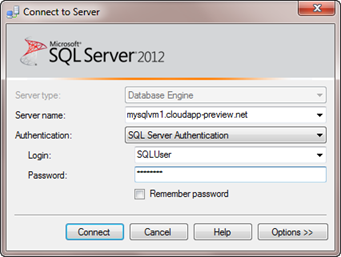
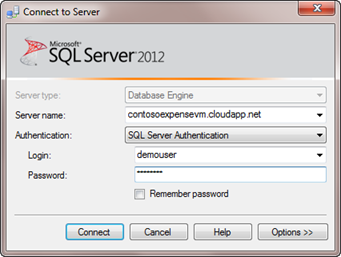
- Updated demo script and screenshots for Contoso Expense demo. (still WIP)

Changed region(s): [[0.3519, 0.4047, 0.7625, 0.4669], [0.3812, 0.5603, 0.5279, 0.6226]]

diff --git a/Demo.md b/Demo.md
@@ -80,13 +80,16 @@ This demo is composed of the following segments:
 
 	>**Speaking Point**
 	>
-	> In my Dashboard view, here is see expenses I have submitted and are awaiting approval from my manager, as well as those that have been approved and rejected.
+	> In my Dashboard view, I can see expenses I have submitted and are awaiting approval from my manager, as well as those that have been approved and rejected.
 
 1.	Enter the following information:
 	- Name
 	- Purpose
+
+1. Next, click **Add New Expense** and fill in the following fields:
+	- Category
 	- Description
-	- Date
+	- Merchant
 	- Billed Amount
 	- Transaction Amount
 
@@ -98,7 +101,7 @@ This demo is composed of the following segments:
 	>
 	> Highlight the fact that because of limitations on-premises, receipts are still submitted manually and are not physically associated or attached with the Expense report.
 
-1. Click **Save As Draft**.
+1. Click **Save Draft**.
 
 	![Expense Reporting - Save Draft](images/expense-reporting-save-draft.png?raw=true "Expense Reporting - Save Draft")
 
@@ -106,9 +109,9 @@ This demo is composed of the following segments:
 
 	>**Speaking Point**
 	>
-	> We going to save this report as a draft because we are going to come back to this expense report several times during this demo.
+	> We are going to save this expense report as a draft because we will come back to it several times during this demo.
 
-1.	Show **Visual Studio**. 
+1. Show **Visual Studio**. 
 1. Open the **Solution Explorer** window.
 
 	![Application's Solution Explorer](images/applications-solution-explorer.png?raw=true "Application's Solution Explorer")
@@ -122,9 +125,10 @@ This demo is composed of the following segments:
 <a name="segment2" />
 ### Migrating to Windows Azure with Virtual Machines & SQL Server 2012 ###
 
-1. Open the Web Browser and navigate to the Windows Azure Portal at <http://windows.azure.com>
+1. Open the Web browser and navigate to the Windows Azure Portal at <http://windows.azure.com>
 
-1. Sign in with the customers live id.
+1. Sign in with your Live ID.
+
 
 	![Sign in](images/sign-in.png?raw=true "Windows Azure Portal Sign in")
 
@@ -132,27 +136,26 @@ This demo is composed of the following segments:
 
 	>**Speaking Point**
 	>
-	> The first step in migrating our application to Windows Azure is to create our VM.
+	> The first step in migrating our application to Windows Azure is to create a VM.
 	>
 	> Let us first navigate to the Windows Azure portal and get signed in.
 	>
-	> We use live id for authentication on the portal - so let’s get log in.
+	> We use Live ID for authentication on the portal, so let’s log in.
 
 1. Click **New** | **Virtual Machine** | **From Gallery**.
 
 	![Creating Virtual Machine from Gallery](images/creating-virtual-machine-from-gallery.png?raw=true "Creating Virtual Machine from Gallery")
 
-	_Creating Virtual Machine from Gallery_
+	_Creating a virtual machine from the Gallery_
 
 	>**Speaking Point**
 	>
 	> Now that we’re logged in, creating a virtual machine via the portal is easy. Let’s select the virtual machines option in the navigation pane.
 	>
-	> At least one virtual machine will be created, but we’re going to create a new virtual machine that has SQL Server 2012. To do that, we’re going to select the **FROM GALLARY** option.
+	> At least one virtual machine will be created, but we’re going to create a new virtual machine that has SQL Server 2012. To do that, we’re going to select the **FROM GALLERY** option.
 	>
-	>**Quick Create** if you only need one virtual machine that doesn’t need to be load-balanced or joined to a virtual network.
-	>
-	>**From Gallery** you have more complex solution. Witth this option you have more flexibility in how the machine is used in advanced solutions.
+	>You can use **Quick Create** if you only need one virtual machine that doesn’t need to be load-balanced or joined to a virtual network or
+**From Gallery** if you have more complex solution. With the latter, you have more flexibility in how the machine is used in advanced scenarios.
 
 1.	In the **CREATE VIRTUAL MACHINE** dialog, select the **SQL Server 2012 Evaluation** option.
 1.	Click the right arrow (Next).
@@ -164,13 +167,14 @@ This demo is composed of the following segments:
 
 	>**Speaking Point**
 	>
-	> Notice all the different VM’s that we have in our gallery. As you can see, we have several VMs that include Linux, as well as several Sever 2008 R2 and Server 8 Beta VMs.
+	> Notice all the different VM’s that we have in our gallery. As you can see, we have many VMs that include Linux, as well as several Server 2008 R2 and Server 2012 VMs.
 	>
 	>We also have, as you can see, a SQL Server 2012 VM. This VM is running SQL Server 2012 Enterprise Evaluation edition which is the VM we want to create, so let’s select that one.
 
 1.	The second page of the **Create Virtual Machine** wizard is the **VM Configuration**. Enter the following:
-	-**NAME**: ConstosExpenseVM
-	-**Password**: Passw0rd!
+	- **Virtual Machine Name**: ContosExpenseVM
+	- **Password**: Passw0rd!
+
 1.	Enter password for the administrator account, then re-enter the password for confirmation.
 1. Select the _Large_ VM **size**.
 
@@ -180,11 +184,11 @@ This demo is composed of the following segments:
 
 	>**Speaking Point**
 	>
-	> Now what we need to do is give our Virtual machine a name. This is the portal display name.
+	> Now what we need to do is give our virtual machine a name. This is the portal display name.
 	>
-	>We also need to supply an administrator Password. 
+	>We also need to supply an administrator password. 
 	>
-	>More  importantly however, we also need to select the size of the VM. There are several size options:
+	>More  importantly, however, we also need to select the size of the VM. There are several size options:
 	>
 	>	- Extra Small
 	>	- Small
@@ -194,10 +198,10 @@ This demo is composed of the following segments:
 	>
 	>These sizes differ, as we can see, in the amount of CPU cores and memory allotted to the VM. It is important that the VM we select will suffice for our needs.
 
-1.	The third page of the **CREATE VIRTUAL MACHINE** wizard is the **VM Mode.** Select the **Standalone Virtual Machine** option.
-1.	Enter a _unique_ **DNS** name for the Virtual Machine.
+1.	The third page of the **CREATE VIRTUAL MACHINE** wizard is the **VM Mode.** Select the **STANDALONE VIRTUAL MACHINE** option.
+1.	Enter a _unique_ **DNS NAME** for the virtual machine.
 1.	For the **STORAGE ACCOUNT**, leave the default at **Use Automatically Generated Storage Account**.
-1. Leave the **REGION/AFFINITY GROUP/VIRTUAL NETWORK** option to **West US**.
+1. Choose a suitable **REGION/AFFINITY GROUP/VIRTUAL NETWORK** where the VM will be deployed.
 
 	![VM Mode page](images/vm-mode-page.png?raw=true "VM Mode page")
 
@@ -205,11 +209,11 @@ This demo is composed of the following segments:
 
 	>**Speaking Point**
 	>
-	> Next we need to select the type of Virtual Machine. Meaning, is this going to be new standalone virtual machine, or are we connecting to an existing virtual machine? With the new IaaS domain features, we have the ability to join this VM to an existing domain. However, for the purposes of this demo, we’ll simply create a standalone VM.
+	> Next we need to select the type of virtual machine. In other words, is this going to be new standalone virtual machine, or are we connecting to an existing virtual machine? With the new IaaS domain features, we have the ability to join this VM to an existing domain. However, for the purposes of this demo, we’ll simply create a standalone VM.
 	>
 	> Next we need to supply a DNS name for this VM. 
 	> 
-	> These VMs are stored in BLOB storage, and we need to specify whether our VM will use an Azure account tied to our Subscription if we created one, or use an automatically generated Storage Account. Since we haven’t created our Storage Account yet, we’ll use the automatically generated account.
+	> These VMs are stored in blob storage and we need to specify whether our VM will use a Windows Azure account tied to our subscription if we created one, or use an automatically generated storage account. Since we haven’t created a storage account yet, we’ll use the automatically generated account.
 Lastly, we need specify in which region to create the VM. 
 
 
@@ -225,81 +229,98 @@ Lastly, we need specify in which region to create the VM.
 	>
 	> Lastly, we need to select an availability set in which to create the VM. 
 	>
-	> POINT: **Availability sets are a group of machines that are deployed across multiple locations (commonly called Fault domains). Availability sets are used to protect from outages.**
+	> An availability set is a group of machines that are deployed across multiple locations (commonly called fault domains). Availability sets are used to protect from outages.
 	> 
-	>So, we’ll select the Create Availability Set Option, and name the Availability Set MyAvailSet.
+	>So, we’ll select the **Create Availability Set** option and name the availability set as _MyAvailSet_.
 	>
-	>Great, were done! We can see in the portal that our VM is being provisioned.
+	>Great, we are done! We can see in the portal that our VM is being provisioned.
 
-1.	At this point, we will switch over to an already provision Virtual Machine that has been prepped and configured.
-1. In the Dashboard, highlight and copy the **DNS** name to the clipboard.
+1. At this point, you may switch over to an already provisioned virtual machine that has been configured with an endpoint for SQL Server Management and that has the corresponding port (1433) opened in its firewall, as well as having an additional SQL Server login which you can use to connect remotely. Otherwise, follow these steps to complete the required configuration. 
 
-	![Virtual Machine's DNS](images/virtual-machines-dns.png?raw=true "Virtual Machine's DNS")
+1.	In the **Windows Azure Portal**, select the VM you created previously.
+1.	Click  the **ENDPOINTS link.**
+1.	Click **ADD ENDPOINT** in the command bar.
+1.	In the **ADD ENDPOINT** dialog, select **Add Endpoint** and then click the right arrow to go to the next page.
 
-	_Virtual Machine's DNS_
+	![Add Endpoint to Virtual Machine page](images/add-endpoint-to-virtual-machine-page.png?raw=true "Add Endpoint to Virtual Machine page")
 
-	>**Speaking Point**
-	>
-	> However, instead of waiting, we are going to use a VM that we provisioned earlier. 
-	>
-	> However, before we connect to the VM, we need to grab some information from it. 
-	>
-	> In order to connect to SQL Server in the VM, we need the DNS name. We’ll be using shortly to connect to SQL Server.
+	_Adding an endpoint to a virtual machine_
 
+1.	In the second page of the **ADD ENDPOINT** dialog, enter a **NAME** for the endpoint, select **TCP** as the **PROTOCOL**, and enter **1433** for both the **PUBLIC PORT** and **PRIVATE PORT** . 
 
-1.	Ensure that you are on the DASHBOARD page.
-1.	Click **Connect** on the whatever bar.
-1.	Save the RDP file to the desktop.
-1 Minimize the browser.
+	![Add Endpoint To Virtual Machine page](images/add-endpoint-to-virtual-machine-page2.png?raw=true "Add Endpoint To Virtual Machine page")
 
-	![Connect to the Virtual Machine](images/connect-to-the-virtual-machine.png?raw=true "Connect to the Virtual Machine")
-
-	_Connect to the Virtual Machine_
-
-	>**Speaking Point**
-	>
-	> We’re going to connect to this VM, and to do that, we simply selected the VM in the portal and click the CONNECT button, which creates an RDP shortcut and asks us to open it or run it. 
-	>
-	> For our existing VM, we saved that shortcut to our desktop.
-
-1.	On the desktop, double0-click the RDP file.
-2.	In the Windows Security dialog, enter the password
-	- Password: Passw0rd!
-1. Click OK.
-
-	![Connecting Virtual Machine - Entering Credentials](images/connecting-virtual-machine-entering-credent.png?raw=true "Connecting Virtual Machine - Entering Credentials")
-
-	_Connecting Virtual Machine - Entering Credentials_
-
-	>**Speaking Point**
-	>
-	> Let’s log into the Virtual Machine by entering the password we entered earlier. 
-	>
-	> While the machine is booting up, call out the steps to prep the  vm for SQL Server access (create endpoint, open port on vm firewall).
-	>	- Creating the endpoint allows the ability to access the VM (_do we go back to the portal and show how that’s done_)?
-	> - To gain access to SQL Server in the Vm, we also need to open port 1433 on the Windows Firewall to allow inbound connections.
-	> - For simplicity sake, we also created a SQL Server login and user with which to connect to SQL Server in the VM.
-
-1.	While the VM is loading, **Go back to the portal**.
-1.	Select the already provisioned VM.
-1. Click the **Endpoints** link.
-
-	![Endpoints Section](images/endpoints-section.png?raw=true "Endpoints Section")
-
-	_Endpoints Section_
+	_Configuring the virtual machine endpoint_
 
 	>**Speaking Point**
 	>
 	> Highlight the fact that in order to gain access to SQL Server inside the VM from external, we needed to create an **Endpoint** for port 1433.
 	>
 	>**Virtual machines** use endpoints to communicate within Windows Azure and with other resources on the Internet
+	>
+	>Creating the endpoint allows us to access the VM remotely to connect to SQL Server.
 
+	![Endpoints Section](images/endpoints-section.png?raw=true "Endpoints Section")
 
-1.	When the Virtual Machine loads, open SQL Server Management Studio and log in to SQL Server using Windows  Authentication.
-1.	Highlight the fact that is SQL Server 2012.
-1.	Expand the databases node to illustrate that there are no user databases.
-Minimize the VM.
+1.	Ensure that you are on the **DASHBOARD** page.
 
+1. In the **DASHBOARD**, highlight and copy the **DNS** name of the virtual machine to the clipboard.
+
+	![Virtual Machine's DNS](images/virtual-machines-dns.png?raw=true "Virtual Machine's DNS")
+
+	_Virtual machine's DNS_
+
+	>**Speaking Point**
+	>
+	> However, before we connect to the VM, we need to grab some information from it. 
+	>
+	> In order to connect to SQL Server in the VM, we need its DNS name. We’ll be using it shortly to connect to SQL Server.
+
+1.	Now, click **Connect** on the command bar.
+1.	Save the RDP file to the desktop or another suitable location.
+1. Minimize the browser.
+
+	![Connect to the Virtual Machine](images/connect-to-the-virtual-machine.png?raw=true "Connect to the Virtual Machine")
+
+	_Connecting to the virtual machine_
+
+	>**Speaking Point**
+	>
+	> We’re going to connect to this VM and to do that, we simply select the VM in the portal and click **CONNECT**, which downloads a Remote Desktop Connection file and asks us to open it or save it to disk. 
+	>
+	> For our existing VM, we will save this shortcut to our desktop.
+
+1.	On the desktop, double-click the RDP file.
+2.	In the **Windows Security** dialog, enter the password
+	- Password: Passw0rd!
+1. Click **OK**.
+
+	![Connecting Virtual Machine - Entering Credentials](images/connecting-virtual-machine-entering-credent.png?raw=true "Connecting Virtual Machine - Entering Credentials")
+
+	_Entering credentials for the Remote Desktop Connection_
+
+	>**Speaking Point**
+	>
+	> Let’s log into the virtual machine by entering the password we configured earlier. 
+
+1.	Inside the remote desktop session, click **Run** on the **Start** menu, type **WF.msc**, and then click **OK**.
+1.	In the **Windows Firewall with Advanced Security** management console, select **Inbound Rules** in the tree view on the left pane, and then click **New Rule** in the action pane.
+1.	In the **Rule Type** dialog box, select **Port**, and then click **Next**.
+1.	In the **Protocol and Ports** dialog box, select **TCP**. Select **Specific local ports**, and then type the port number of the instance of the Database Engine, such as **1433** for the default instance. Click **Next**.
+1.	In the **Action** dialog box, select **Allow the connection**, and then click **Next**.
+1.	In the **Profile** dialog box, select any profiles that describe the computer connection environment when you want to connect to the Database Engine, and then click **Next**.
+1.	In the **Name** dialog box, type a name and description for this rule, and then click **Finish**.
+new-inbound-firewall-rule.png
+
+	![New Inbound Firewall Rule](images/new-inbound-firewall-rule.png?raw=true"New Inbound Firewall Rule")
+
+	_Creating a firewall rule for SQL Server access_
+
+	>**Speaking Point**
+	> 
+	> To gain access to SQL Server in the VM, we need to open port 1433 on the Windows Firewall to allow inbound connections.
+
+1.	Now, open SQL Server Management Studio in the remote desktop session and log in to SQL Server using Windows Authentication.
 	![Management Studio's Object Explorer](images/management-studios-object-explorer.png?raw=true "Management Studio's Object Explorer")
 
 	_Management Studio's Object Explorer_
@@ -308,24 +329,52 @@ Minimize the VM.
 	>
 	> Call out the fact that is indeed SQL Server 2012, FULL FUNCTIONALITY.
 
-1.	Open Management Studio for SQL Server 2012 on -premises.
-1.	In the Connection dialog, log into the on-premise SQL Server using Windows Authentication.
+1. Expand the databases node to illustrate that there are no user databases.
+1. Right-click the (root) server node and then select **Properties**.
+1. In the **Server Properties** dialog, select the **Security** page.
+1. Under **Server authentication**, select the option labeled **SQL Server and Windows Authentication mode** and then click **OK**.
+
+	![Enabling SQL Server Authentication](images/enabling-sql-server-authentication.png?raw=true "Enabling SQL Server Authentication")
+
+	_Enabling SQL Server Authentication_
+
+	>**Speaking Point**
+	> 
+	> For this demo, we will enable SQL Server authentication mode and create login that we can use to connect remotely.
+
+1. Now, right-click the (root) server node again and select **Restart** to allow the change in authentication mode to take effect.
+
+1. Expand the **Security** node, right-click **Logins**, and then select **New Login**.
+1. In the **Login - New** dialog, type a new **Login name**, for example _demouser_, select **SQL Server authentication**, clear the option labeled **User must change password at next login**, and then click **OK**.
+
+	![New SQL Server Login](images/sql-server-create-login.png?raw=true"New SQL Server Login")
+
+	_Adding a new SQL Server login_
+
+	>**Speaking Point**
+	>
+	> For simplicity sake, we also need to create a new SQL Server login with which to connect to SQL Server in the VM.
+
+1. Minimize the remote desktop session for the VM.
+
+1.	Open Management Studio for SQL Server 2012 in your local machine (on-premises).
+1.	In the **Connect to Server** dialog, log into the on-premise SQL Server using Windows Authentication.
 1. Expand the database node and point to the database that is going to be migrated to the VM. 
 
 	![Connecting to on-premises SQL Server](images/connecting-to-on-premises-sql-server.png?raw=true "Connecting to on-premises SQL Server")
 
-	_Connecting to on-premises SQL Server_
+	_Connecting to the on-premises SQL Server_
 
 	>**Speaking Point**
 	>
 	> Our first task is to connect to our on-premises SQL Server. This is where our source database is coming from.
 
-1.	Create another SQL Server connection. Paste in the DNS name of the VM copied from **Step 30**, **removing** http:// from the name and any trailing slashes.
-1. Use SQL Authentication, using **SQLUser** and **Passw0rd1!** For the login name and password.
+1.	Create a second SQL Server connection. In the **Server name** field, paste in the DNS name of the VM copied earlier from the portal.
+1. Use SQL Authentication, and type _demouser_ and _Passw0rd1!_ for the login name and password.
 
 	![Creating to SQL Server using VM's DNS Name](images/creating-to-sql-server-using-vms-dns-name.png?raw=true "Creating to SQL Server using VM's DNS Name")
 
-	_Creating to SQL Server using VM's DNS Name_
+	_Connecting to the SQL Server in Windows Azure using the VM's DNS name_
 
 	>**Speaking Point**
 	>
@@ -335,9 +384,9 @@ Minimize the VM.
 	>
 	>We copied this name to the clipboard earlier.
 
-1.	You should now have two connections, one for on-prem, one for SQL Server in the VM.
-1.	In the on-prem connection, right mouse-click on the database to export and select **Tasks** -> **Export Data-Tier Application** from the context menu
-1. Click **Next** on Introduction Screen.
+1.	You should now have two connections, one for on-premises and one for SQL Server in the VM.
+1.	In the on-premises connection, right-click the database to export and select **Tasks** -> **Export Data-Tier Application** in the context menu.
+1. In the **Introduction** screen, click **Next**.
 
 	![Exporting Data-tier Application](images/exporting-data-tier-application.png?raw=true "Exporting Data-tier Application")
 
@@ -345,11 +394,11 @@ Minimize the VM.
 
 	>**Speaking Point**
 	>
-	> We actually have several ways of getting our database from on-premises to the VM, including Generate Scripts wizard or backup/restore. 
+	> We actually have several ways of getting our database from on-premises to the VM, including the Generate Scripts wizard or backup/restore. 
 	>
-	> **However, new in sql server 2012 is the ability to export and import a database using what are called BACPACs**.
+	> **However, new in Sql Server 2012 is the ability to export and import a database using what are called BACPACs**.
 
-1.	On the Export Settings page, select the Save to local disk option.
+1.	In the **Export Settings** page, select the option labeled **Save to local disk**.
 1.	Click Browse.
 1.	In the Save As dialog, navigate to the C:\DAC Packages folder and enter **Expenses** for the filename.
 1.	Click Save on the Save As dialog.
